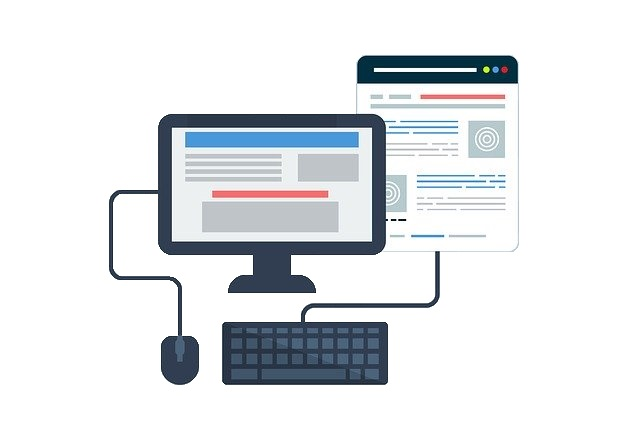
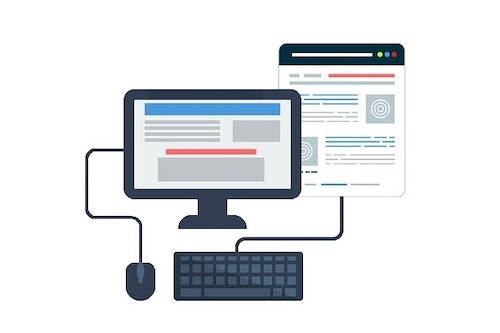
update header images

diff --git a/src/main/resources/templates/java.html b/src/main/resources/templates/java.html
@@ -99,15 +99,6 @@
                     <p>
                         Da ich mich seit längerem mit Spring beschäftige, können Sie
                         <a class="link" href="spring-framework.html">hier</a> ein Projekt aus dem Spring Framework sehen.
-
-<!--                        Alle Daten durchlaufen eine Validierung und müssen diese erfüllen, erst nach der Validierung-->
-<!--                        werden-->
-<!--                        die Daten gespeicht.-->
-<!--                        Mit den Daten rechnet das Programm den BMI aus, berücksichtigt allerdings die Größe noch einmal-->
-<!--                        gesondert.-->
-<!--                        Für die jeweiligen Eigenschaften werden Punkte vergeben, der Spieler mit der höheren Punktzahl-->
-<!--                        wird-->
-<!--                        zum Sieger erklärt, der Verlierer wird aus der Liste gelöscht.-->
                     </p>
                     <p>
                         <a class="link" href="https://github.com/Entremetier/fun-fight-app" target="_blank">Hier</a>
@@ -116,7 +107,7 @@
                 </article>
             </div>
             <div class="col-xl-6 offset-xl-1 text-center head-image"><img
-                    src="img/java/java-title/paar-white-background-II.jpg"
+                    src="img/java/java-title/couple-fighting.jpg"
                     alt="Lustig Boxendes Pärchen"></div>
         </div>
     </div>

diff --git a/src/main/resources/templates/golden.html b/src/main/resources/templates/golden.html
@@ -96,10 +96,6 @@
                         umgesetzt mit Bootstrap und Sass.
                     </p>
                     <p>
-                        Es gibt bei diesem Projekt nur die Index Seite, auf dieser werden die einzelnen Bereiche über
-                        verschiedene id's angesteuert.
-                    </p>
-                    <p>
                         Die Bereiche und ihre Inhalte wurden ausschließlich mit Bootstrapklassen und Sass designed.
                         Besonderheit ist die mobile Navbar, diese hat eine JavaScript function um den Content nicht im
                         Header einzublenden sondern daneben.
@@ -113,7 +109,7 @@
                 </article>
             </div>
             <div class="col-xl-6 offset-xl-1 text-center head-image"><img
-                    src="img/bootstrap/bootstrap-title/statistic-sm.png"
+                    src="img/bootstrap/bootstrap-title/statistic-I.png"
                     alt="Java Bild"></div>
         </div>
     </div>

diff --git a/src/main/resources/templates/spring-framework.html b/src/main/resources/templates/spring-framework.html
@@ -99,8 +99,6 @@
                         Es können die Besitzer mit dem jeweiligen Haustier durch ein Suchfeld aus der Datenbank
                         herausgesucht werden.
                         Darüber hinaus können Ärzte mit ihrem jeweiligen Spezialgebieten angezeigt werden.
-<!--                        Neue Besitzer und Haustiere können hinzugefügt werden, werden aber auf Grund der verwendeten H2-->
-<!--                        Datenbank nicht persistiert.-->
                     </p>
                     <p>
                         <a class="link" href="https://github.com/Entremetier/pet-clinic" target="_blank">Hier</a>
@@ -109,7 +107,7 @@
                 </article>
             </div>
             <div class="col-xl-6 offset-xl-1 text-center head-image"><img
-                    src="img/spring/spring-title/dog.jpg"
+                    src="img/spring/spring-title/dog-I.jpg"
                     alt="Bild von einem Hund"></div>
         </div>
     </div>

diff --git a/src/main/resources/templates/mySql.html b/src/main/resources/templates/mySql.html
@@ -104,8 +104,8 @@
                     </p>
                 </article>
             </div>
-            <div class="col-xl-6 offset-xl-1 text-center head-image"><img
-                    src="img/mySql/mySql-header/database-schema-sm.png"
+            <div class="col-xl-6 offset-xl-1 head-image"><img
+                    src="img/mySql/mySql-header/database-schema-III.png"
                     alt="Database Schema"></div>
         </div>
     </div>

diff --git a/src/main/resources/templates/webdesign.html b/src/main/resources/templates/webdesign.html
@@ -107,7 +107,7 @@
                 </article>
             </div>
             <div class="col-xl-6 offset-xl-1 text-center head-image"><img
-                    src="img/html/html-title/webdesign-sm.jpg"
+                    src="img/html/html-title/webdesign-III.jpg"
                     alt="Bild eines entwurfs für eine Webpage"></div>
         </div>
     </div>
